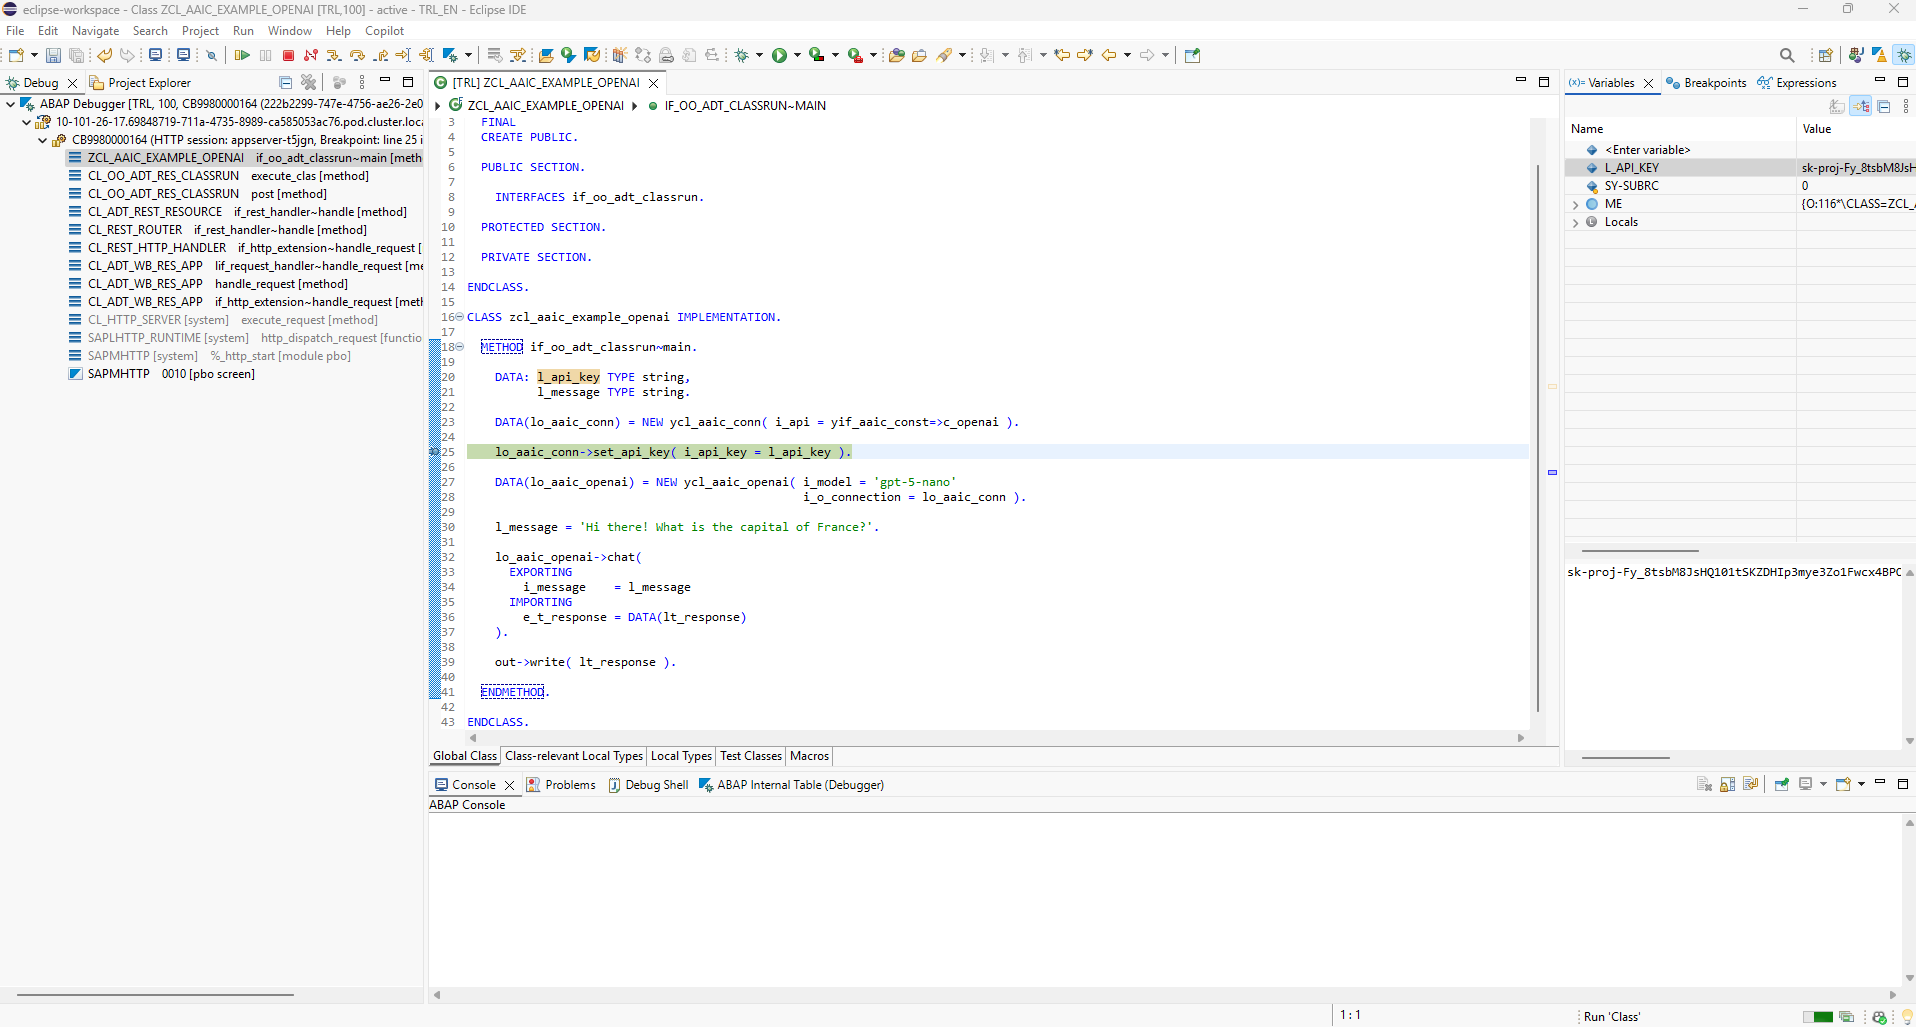
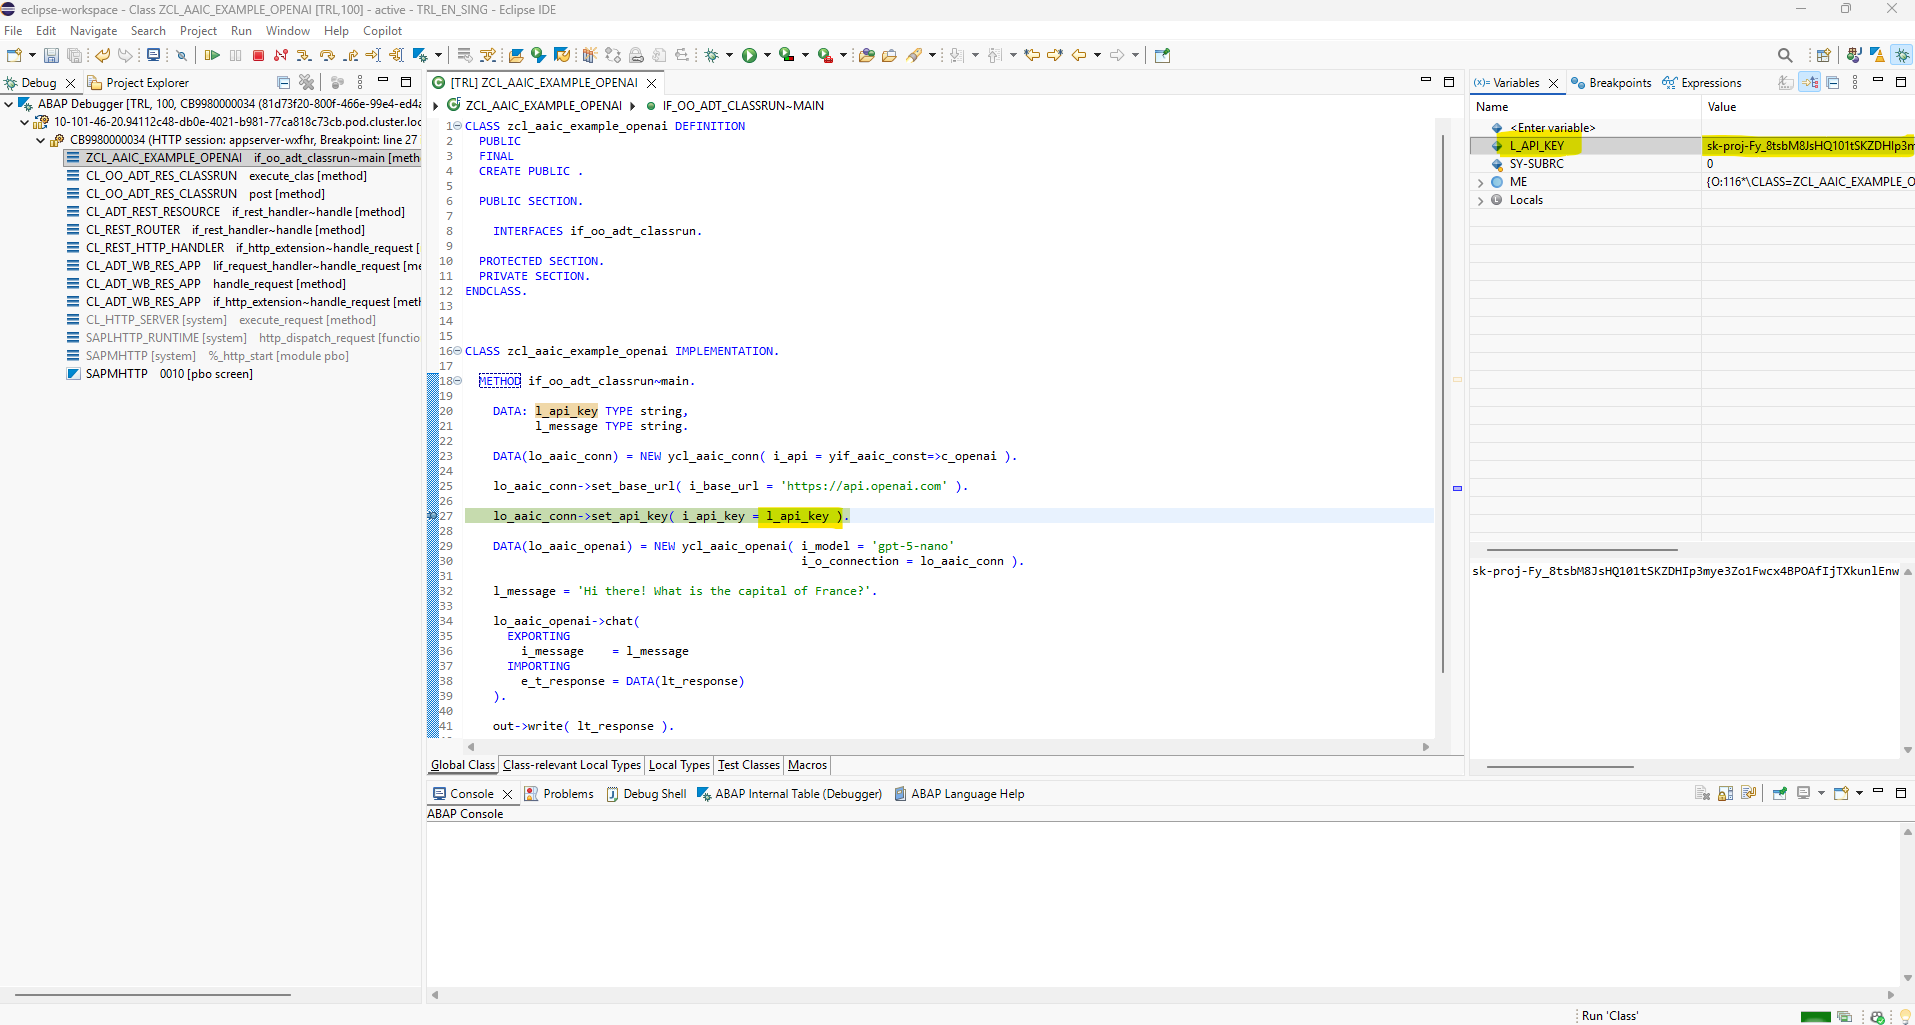
Documentartion

diff --git a/docs/openai_compatible/README.md b/docs/openai_compatible/README.md
@@ -1,7 +1,86 @@
-# yaai_cloud - ABAP AI tools Cloud - Providers that implement the OpenAI API standards
-
-## Mistral
+# yaai_cloud - ABAP AI tools Cloud - Providers that implement the OpenAI API standards 
 
 <p>
   <img src="../images/Mistral_AI_logo_(2025–).svg" alt="Mistral Logo" width="200px">
 </p>
+
+## Mistral Quickstart
+
+### Running Your First ABAP AI Cloud Mistral Application
+
+This quickstart demonstrates how to create a simple LLM application. It shows you how to connect to the LLM and perform a basic chat interaction.
+
+**Requirements:** 
+*   You have a valid Mistral API Key.
+
+**Steps:**
+1.  Create an ABAP AI Connection instance;
+2.  Set the Base URL;
+3.  Set the API Key;
+4.  Create an ABAP AI OpenAI instance;
+5.  Call the CHAT method.
+
+**Example:**
+```abap
+CLASS zcl_aaic_example_mistral DEFINITION
+  PUBLIC
+  FINAL
+  CREATE PUBLIC .
+
+  PUBLIC SECTION.
+
+    INTERFACES if_oo_adt_classrun.
+
+  PROTECTED SECTION.
+  PRIVATE SECTION.
+ENDCLASS.
+
+
+
+CLASS zcl_aaic_example_mistral IMPLEMENTATION.
+
+  METHOD if_oo_adt_classrun~main.
+
+    DATA: l_api_key TYPE string,
+          l_message TYPE string.
+
+    DATA(lo_aaic_conn) = NEW ycl_aaic_conn( i_api = yif_aaic_const=>c_mistral ).
+
+    lo_aaic_conn->set_base_url( i_base_url = 'https://api.mistral.ai' ).
+
+    lo_aaic_conn->set_api_key( i_api_key = l_api_key ).
+
+    DATA(lo_aaic_openai) = NEW ycl_aaic_openai( i_model = 'mistral-large-latest'
+                                                i_o_connection = lo_aaic_conn ).
+
+    lo_aaic_openai->use_completions( ).
+
+    l_message = 'Hi there! What is the capital of France?'.
+
+    lo_aaic_openai->chat(
+      EXPORTING
+        i_message    = l_message
+      IMPORTING
+        e_t_response = DATA(lt_response)
+    ).
+
+    out->write( lt_response ).
+
+  ENDMETHOD.
+
+ENDCLASS.
+``` 
+
+**How to run:**
+1. Set a breakpoint on the `set_api_key` method call (`lo_aaic_conn->set_api_key( i_api_key = l_api_key ).`).
+2. Press F9 to execute the code.
+3. In the debugger, set the value of the variable `l_api_key` to your actual API key.
+4. Press F8 to continue execution.
+
+**ABAP Debugger:**
+
+![Output of the ABAP AI quickstart example](../images/quickstart_mistral_1.png)
+
+**Result (ABAP Console view):**
+
+![Output of the ABAP AI quickstart example](../images/quickstart_mistral_2.png)

diff --git a/docs/anthropic/README.md b/docs/anthropic/README.md
@@ -3,3 +3,82 @@
 <p>
   <img src="../images/anthropic_logo.svg" alt="Anthropic Logo" width="200px">
 </p>
+
+## Anthropic Quickstart
+
+### Running Your First ABAP AI Cloud Anthropic Application
+
+This quickstart demonstrates how to create a simple LLM application. It shows you how to connect to the LLM and perform a basic chat interaction.
+
+**Requirements:** 
+*   You have a valid Anthropic API Key.
+
+**Steps:**
+1.  Create an ABAP AI Connection instance;
+2.  Set the Base URL;
+3.  Set the API Key;
+4.  Create an ABAP AI Anthropic instance;
+5.  Call the CHAT method.
+
+**Example:**
+```abap
+CLASS zcl_aaic_example_anthropic DEFINITION
+  PUBLIC
+  FINAL
+  CREATE PUBLIC .
+
+  PUBLIC SECTION.
+
+    INTERFACES if_oo_adt_classrun.
+
+  PROTECTED SECTION.
+  PRIVATE SECTION.
+ENDCLASS.
+
+
+
+CLASS zcl_aaic_example_anthropic IMPLEMENTATION.
+
+  METHOD if_oo_adt_classrun~main.
+
+    DATA: l_api_key TYPE string,
+          l_message TYPE string.
+
+    DATA(lo_aaic_conn) = NEW ycl_aaic_conn( i_api = yif_aaic_const=>c_anthropic ).
+
+    lo_aaic_conn->set_base_url( i_base_url = 'https://api.anthropic.com' ).
+
+    lo_aaic_conn->set_api_key( i_api_key = l_api_key ).
+
+    DATA(lo_aaic_anthropic) = NEW ycl_aaic_anthropic( i_model = 'claude-sonnet-4-20250514'
+                                                      i_o_connection = lo_aaic_conn ).
+
+    l_message = 'Hi there! What is the capital of France?'.
+
+    lo_aaic_anthropic->chat(
+      EXPORTING
+        i_message    = l_message
+      IMPORTING
+        e_t_response = DATA(lt_response)
+    ).
+
+    out->write( lt_response ).
+
+  ENDMETHOD.
+
+ENDCLASS.
+``` 
+
+**How to run:**
+1. Set a breakpoint on the `set_api_key` method call (`lo_aaic_conn->set_api_key( i_api_key = l_api_key ).`).
+2. Press F9 to execute the code.
+3. In the debugger, set the value of the variable `l_api_key` to your actual API key.
+4. Press F8 to continue execution.
+
+**ABAP Debugger:**
+
+![Output of the ABAP AI quickstart example](../images/quickstart_anthropic_1.png)
+
+**Result (ABAP Console view):**
+
+![Output of the ABAP AI quickstart example](../images/quickstart_anthropic_2.png)

diff --git a/docs/openai/README.md b/docs/openai/README.md
@@ -3,3 +3,80 @@
 <p>
   <img src="../images/OpenAI-black-monoblossom.png" alt="OpenAI Logo" width="100px">
 </p>
+
+## OpenAI Quickstart
+
+### Running Your First ABAP AI Cloud OpenAI Application
+
+This quickstart demonstrates how to create a simple LLM application. It shows you how to connect to the LLM and perform a basic chat interaction.
+
+**Requirements:** 
+*   You have a valid OpenAI API Key.
+
+**Steps:**
+1.  Create an ABAP AI Connection instance;
+2.  Set the Base URL;
+3.  Set the API Key;
+4.  Create an ABAP AI OpenAI instance;
+5.  Call the CHAT method.
+
+**Example:**
+```abap
+CLASS zcl_aaic_example_openai DEFINITION
+  PUBLIC
+  FINAL
+  CREATE PUBLIC.
+
+  PUBLIC SECTION.
+
+    INTERFACES if_oo_adt_classrun.
+
+  PROTECTED SECTION.
+  PRIVATE SECTION.
+ENDCLASS.
+
+CLASS zcl_aaic_example_openai IMPLEMENTATION.
+
+  METHOD if_oo_adt_classrun~main.
+
+    DATA: l_api_key TYPE string,
+          l_message TYPE string.
+
+    DATA(lo_aaic_conn) = NEW ycl_aaic_conn( i_api = yif_aaic_const=>c_openai ).
+
+    lo_aaic_conn->set_base_url( i_base_url = 'https://api.openai.com' ).
+    
+    lo_aaic_conn->set_api_key( i_api_key = l_api_key ).
+
+    DATA(lo_aaic_openai) = NEW ycl_aaic_openai( i_model = 'gpt-5-nano'
+                                                i_o_connection = lo_aaic_conn ).
+
+    l_message = 'Hi there! What is the capital of France?'.
+
+    lo_aaic_openai->chat(
+      EXPORTING
+        i_message    = l_message
+      IMPORTING
+        e_t_response = DATA(lt_response)
+    ).
+
+    out->write( lt_response ).
+
+  ENDMETHOD.
+
+ENDCLASS.
+``` 
+
+**How to run:**
+1. Set a breakpoint on the `set_api_key` method call (`lo_aaic_conn->set_api_key( i_api_key = l_api_key ).`).
+2. Press F9 to execute the code.
+3. In the debugger, set the value of the variable `l_api_key` to your actual API key.
+4. Press F8 to continue execution.
+
+**ABAP Debugger:**
+
+![Output of the ABAP AI quickstart example](../images/quickstart1.png)
+
+**Result (ABAP Console view):**
+
+![Output of the ABAP AI quickstart example](../images/quickstart2.png)

diff --git a/docs/google/README.md b/docs/google/README.md
@@ -1,5 +1,40 @@
-# yaai_cloud - ABAP AI tools Cloud - Google Gemini API
+# yaai_cloud - ABAP AI tools Cloud - Google Gemini
 
 <p>
   <img src="../images/Gemini_2024_icon.svg" alt="Google Gemini Logo" width="100px">
 </p>
+
+## Google Gemini Quickstart
+
+### Running Your First ABAP AI Cloud Google Gemini Application
+
+This quickstart demonstrates how to create a simple LLM application. It shows you how to connect to the LLM and perform a basic chat interaction.
+
+**Requirements:** 
+*   You have a valid Google Gemini API Key.
+
+**Steps:**
+1.  Create an ABAP AI Connection instance;
+2.  Set the Base URL;
+3.  Set the API Key;
+4.  Create an ABAP AI Google Gemini instance;
+5.  Call the CHAT method.
+
+**Example:**
+```abap
+
+``` 
+
+**How to run:**
+1. Set a breakpoint on the `set_api_key` method call (`lo_aaic_conn->set_api_key( i_api_key = l_api_key ).`).
+2. Press F9 to execute the code.
+3. In the debugger, set the value of the variable `l_api_key` to your actual API key.
+4. Press F8 to continue execution.
+
+**ABAP Debugger:**
+
+![Output of the ABAP AI quickstart example](../images/quickstart_google_1.png)
+
+**Result (ABAP Console view):**
+
+![Output of the ABAP AI quickstart example](../images/quickstart_google_2.png)

diff --git a/README.md b/README.md
@@ -89,6 +89,8 @@ CLASS zcl_aaic_example_openai IMPLEMENTATION.
 
     DATA(lo_aaic_conn) = NEW ycl_aaic_conn( i_api = yif_aaic_const=>c_openai ).
 
+    lo_aaic_conn->set_base_url( i_base_url = 'https://api.openai.com' ).
+    
     lo_aaic_conn->set_api_key( i_api_key = l_api_key ).
 
     DATA(lo_aaic_openai) = NEW ycl_aaic_openai( i_model = 'gpt-5-nano'
